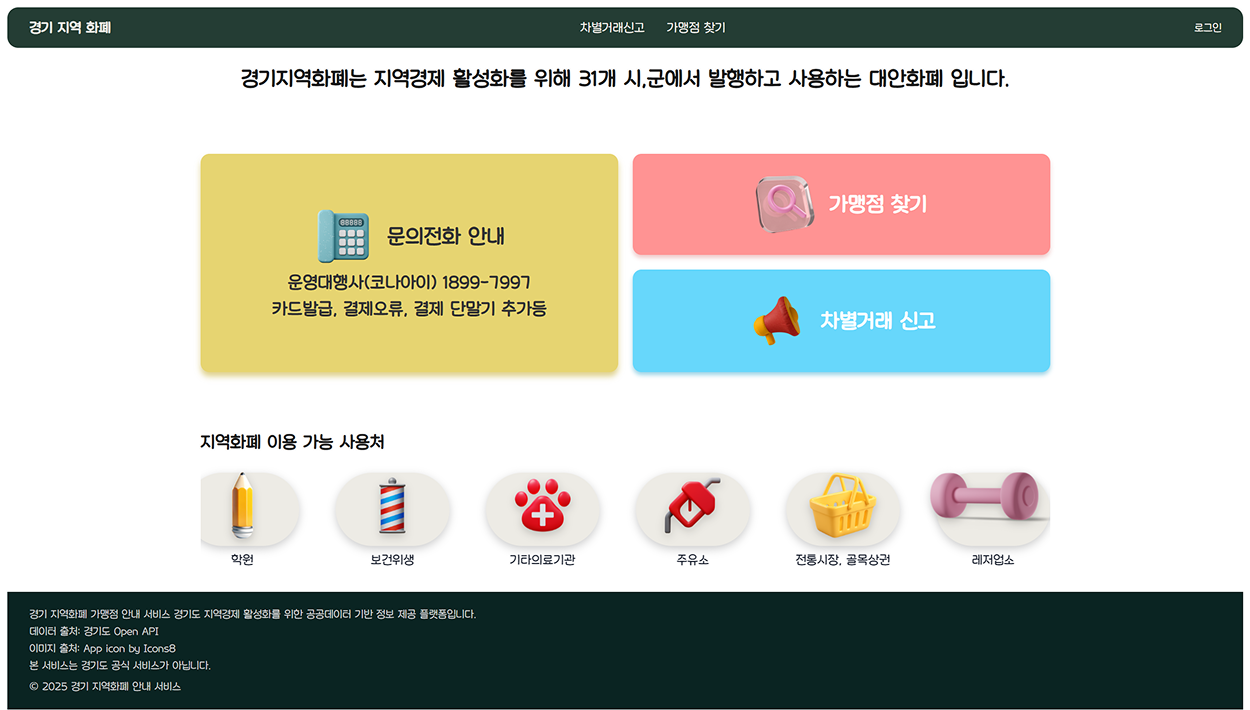
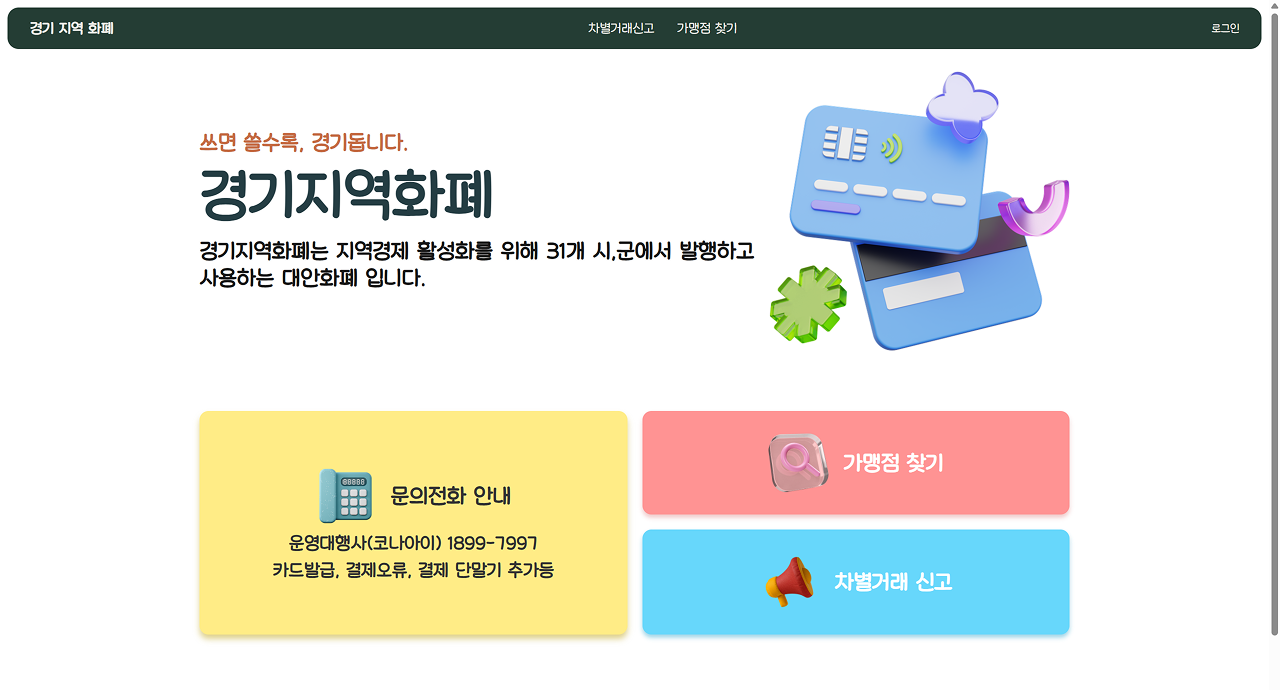
contents: 내용 수정

diff --git a/src/components/unit/project/gMoney.tsx b/src/components/unit/project/gMoney.tsx
@@ -76,7 +76,7 @@ export function GMoney() {
                         {
                             img: '/image/g_money/img_main_v2.png',
                             title: '메인 화면',
-                            desc: ['메인 화면 UI 구현 및 직관적 레이아웃 설계', '지역화폐 사용 가능 매장 정보를 CSS 애니메이션으로 시각화', '핵심 기능 메뉴를 빠르게 탐색 가능'],
+                            desc: ['메인 화면 UI 구현 및 직관적 레이아웃 설계', '지역화폐 사용처를 CSS 애니메이션으로 시각화', '핵심 기능 메뉴를 빠르게 탐색 가능'],
                         },
                         {
                             img: '/image/g_money/img02.png',

diff --git a/src/components/unit/main/index.tsx b/src/components/unit/main/index.tsx
@@ -23,7 +23,7 @@ export default function Main() {
                         </div>
                         <div className="flex items-center gap-3">
                             <span className="text-lg font-semibold">레벨</span>
-                            <p className="flex-1 px-3 py-2 border border-2 border-[#5A4630] rounded-lg  text-[#5A4630]">Lv.0</p>
+                            <p className="flex-1 px-3 py-2 border border-2 border-[#5A4630] rounded-lg  text-[#5A4630]">Lv.1</p>
                         </div>
                         <div className="flex items-center gap-3">
                             <span className="text-lg font-semibold">전직</span>
